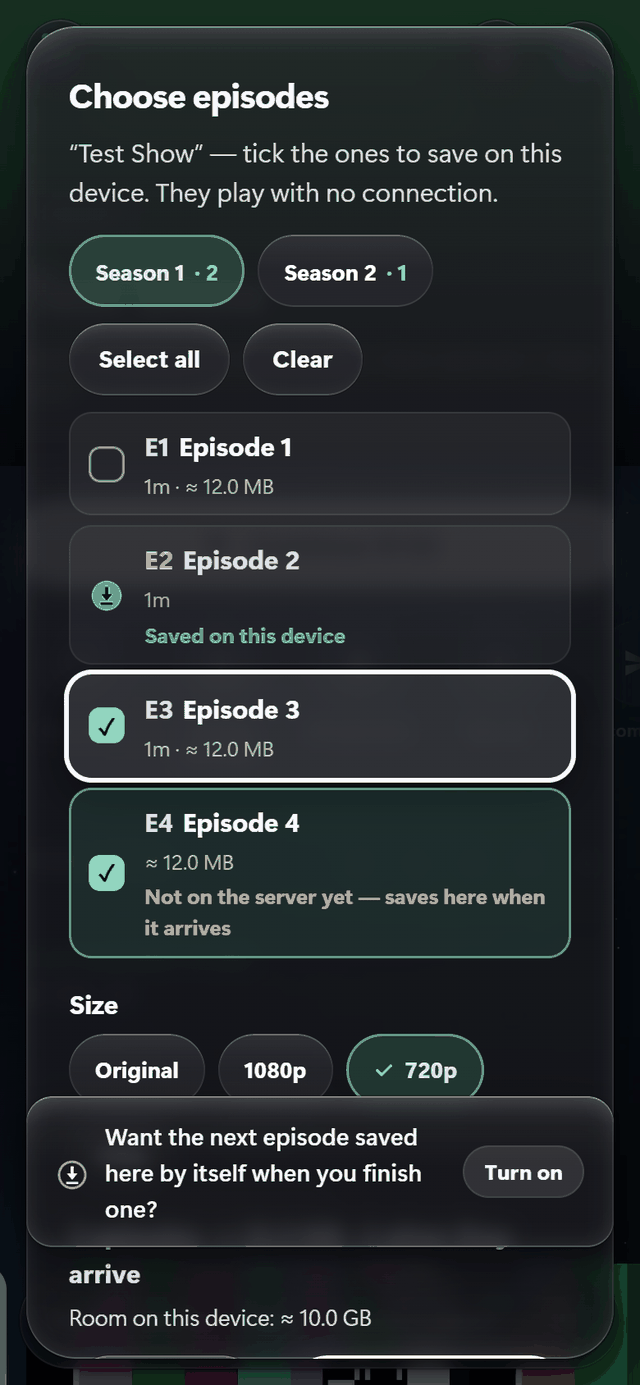
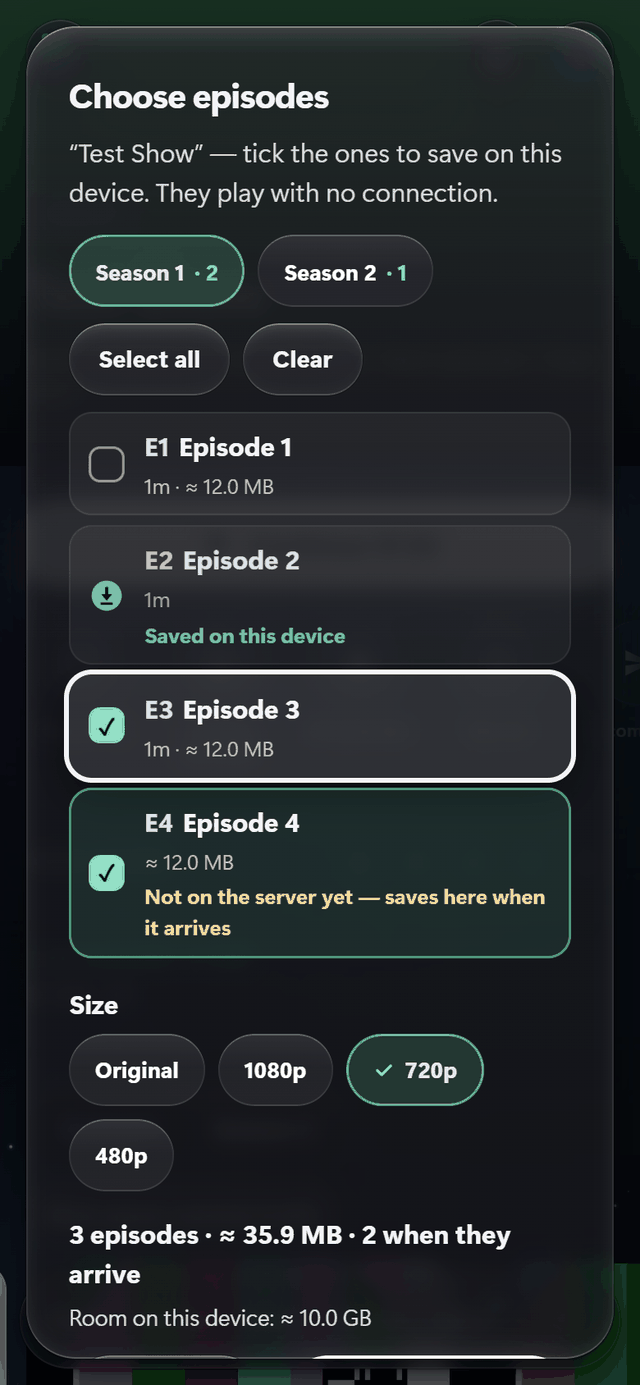
The 'keep the next episode ready' offer never covers an open sheet: it waits for Choose episodes (or any sheet) to close, then says it once; test proves it (fails on the old code); chooser shots re-shot

diff --git a/test/ui/offline-choose.test.js b/test/ui/offline-choose.test.js
@@ -143,4 +143,31 @@ for (const [name, viewport] of [["phone", PHONE], ["desktop", DESKTOP]]) {
   });
 }
 
+ui.test("phone: the 'keep the next episode ready' offer never covers an open sheet — it waits for the sheet to close, then says it once", async ({ srv, freshProfile }) => {
+  const profile = await freshProfile();
+  const { context, page, errors } = await open(srv, profile, PHONE);
+  try {
+    await page.evaluate((id) => { location.hash = `#/show/${id}`; }, srv.lib.show.id);
+    await page.locator('[data-ui="detail.offline.choose"]').first().click();
+    await page.waitForSelector(".choose-sheet .choose-row");
+    // an episode lands on this device while the sheet is open (the moment the offer is due)
+    assert.ok(await save(page, srv.lib.e1.id));
+    await page.waitForTimeout(8500); // (the offer comes 6 s after the landing line)
+    const offer = page.locator("#toasts .toast", { hasText: "Want the next episode saved here" });
+    assert.equal(await offer.count(), 0, "nothing on top of the open sheet");
+    // the Save button and the total are not covered by any toast
+    const covered = await page.evaluate(() => {
+      const b = document.querySelector('[data-ui="offline.choose.save"]').getBoundingClientRect();
+      return [...document.querySelectorAll("#toasts .toast")].some((t) => { const r = t.getBoundingClientRect(); return r.bottom > b.top && r.top < b.bottom && r.right > b.left && r.left < b.right; });
+    });
+    assert.equal(covered, false);
+    await page.locator('[data-ui="offline.choose.cancel"]').click();
+    await page.waitForSelector(".choose-sheet", { state: "detached" });
+    await offer.first().waitFor({ timeout: 10000 });
+    assert.deepEqual(errors, []);
+  } finally {
+    await context.close().catch(() => {});
+  }
+});
+
 ui.run({ concurrency: 1 });

diff --git a/public/js/offlineUi.js b/public/js/offlineUi.js
@@ -321,14 +321,29 @@ export const savedByItself = (id) => readAuto().ids.includes(id);
 export const lastByItself = () => { const v = readAuto().last; const w = who(); return v && (!v.who || !w || v.who === w.id) ? v : null; };
 // Offered once on a device, when an episode lands and the switch is off:
 // one press turns it on. Never over something that is playing — it waits
-// for the next episode that lands.
+// for the next episode that lands — and never over an open sheet (Choose
+// episodes, the size sheet…): it waits for the sheet to close, then says it
+// once, so it never covers a sheet's total or its Save button.
 const NUDGE_KEY = "aurora-offline-next-asked";
+export const sheetUp = () => !!document.querySelector(".ui-overlay:not(.leaving), .look-notice-wrap:not(.leaving)");
+let nudgeWait = null;
 const nudgeNext = () => {
   if (document.querySelector("#app .player")) return;
   try {
     if (offline.smartNext.get() || localStorage.getItem(NUDGE_KEY)) return;
-    localStorage.setItem(NUDGE_KEY, "1");
   } catch { return; }
+  if (sheetUp()) {
+    if (nudgeWait) return;
+    const until = Date.now() + 30 * 60 * 1000;
+    nudgeWait = setInterval(() => {
+      if (sheetUp() && Date.now() < until) return;
+      clearInterval(nudgeWait);
+      nudgeWait = null;
+      if (Date.now() < until) setTimeout(nudgeNext, 700); // (the sheet's own closing moment first)
+    }, 500);
+    return;
+  }
+  try { localStorage.setItem(NUDGE_KEY, "1"); } catch { return; }
   toast("Want the next episode saved here by itself when you finish one?", mark("none"), {
     label: "Turn on",
     onClick: () => { offline.smartNext.set(true); toast("Done — the next episode is kept ready on this device", mark("saved"), null, { quiet: true }); },
